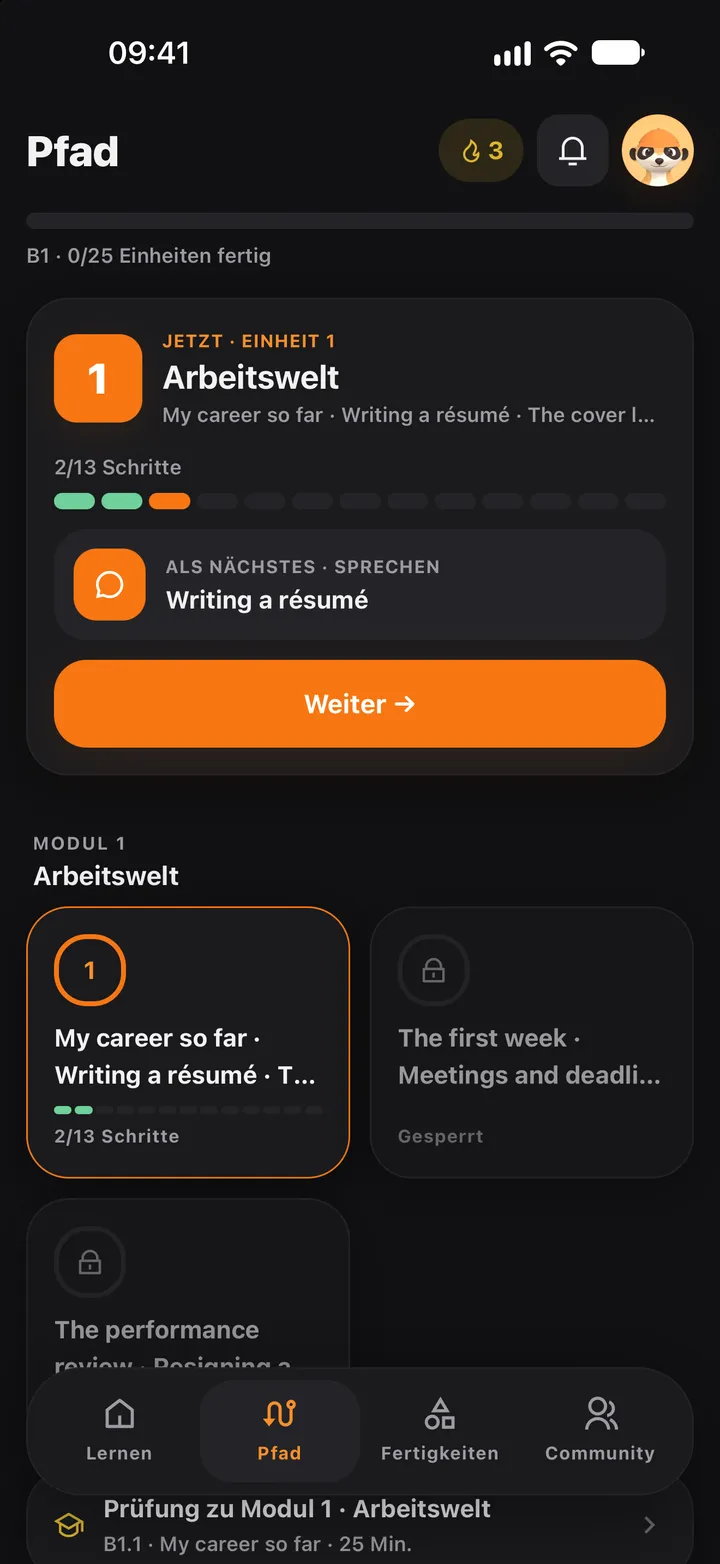
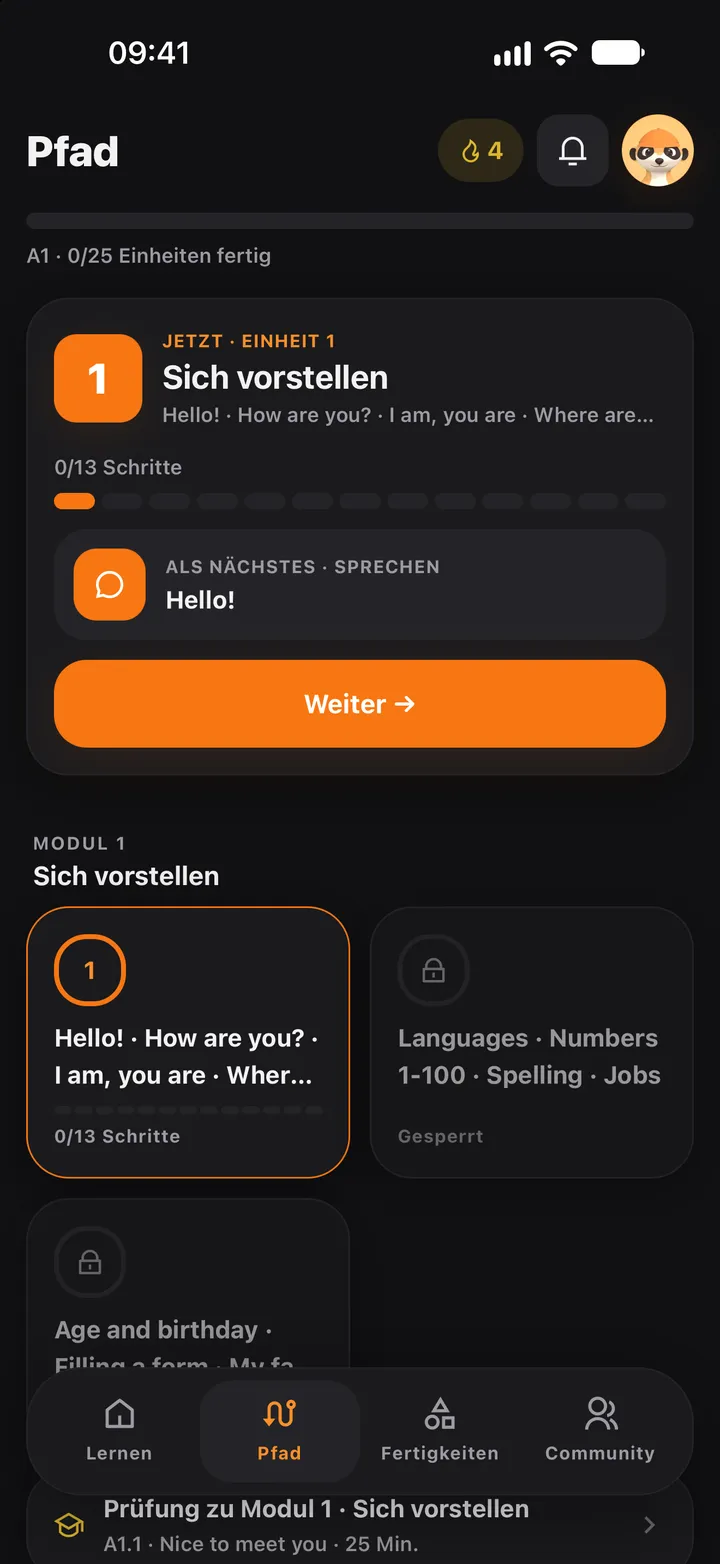
Landing: Patika görüntüsü A1 (üç dil çifti, açık/koyu), alt metinler

diff --git a/src/content/landing.ts b/src/content/landing.ts
@@ -200,7 +200,7 @@ const tr: LandingCopy = {
     langNav: "Sayfanın dili",
   },
   alt: {
-    path: "Patika ekranı: B1 seviyesi, şu anki ünite İş dünyası, sıradaki adım okuma, Devam et düğmesi.",
+    path: "Patika ekranı: A1 seviyesi, şu anki ünite Tanışma ve ben, sıradaki adım konuşma (Hallo!), Devam et düğmesi.",
     unit: "Ünite ekranı: İş dünyası ünitesinin adımları; konuşma adımı tamamlanmış, sıradaki okuma.",
     conversation:
       "Konuşma adımı: iş görüşmesinde yapay zekâ karakteri soruyor, kullanıcının cevabındaki seit drei Jahre hatası seit drei Jahren olarak düzeltiliyor, altta üç öneri.",
@@ -386,7 +386,7 @@ const en: LandingCopy = {
     langNav: "Page language",
   },
   alt: {
-    path: "Path screen: level B1, current unit on the working world, next step reading, Continue button.",
+    path: "Path screen: level A1, current unit Introductions and me, next step speaking (Hallo!), Continue button.",
     unit: "Unit screen: the steps of the working-world unit; the speaking step is done, reading is next.",
     conversation:
       "Speaking step: in a job interview the AI character asks a question; the user's mistake seit drei Jahre is corrected to seit drei Jahren; three suggestions below.",
@@ -572,7 +572,7 @@ const de: LandingCopy = {
     langNav: "Sprache der Seite",
   },
   alt: {
-    path: "Pfad-Ansicht: Niveau B1, aktuelle Einheit, nächster Schritt und die Schaltfläche Weiter.",
+    path: "Pfad-Ansicht: Niveau A1, aktuelle Einheit Sich vorstellen, nächster Schritt Sprechen (Hello!) und die Schaltfläche Weiter.",
     unit: "Einheit-Ansicht im Englischkurs: My career so far ist erledigt, als Nächstes der Lesetext Three rules for a résumé.",
     conversation:
       "Sprechen-Schritt im Englischkurs: Die KI-Figur aus der Karriereberatung fragt nach deiner Ausbildung; I work … since three years wird zu I have worked … for three years korrigiert, darunter drei Vorschläge.",
